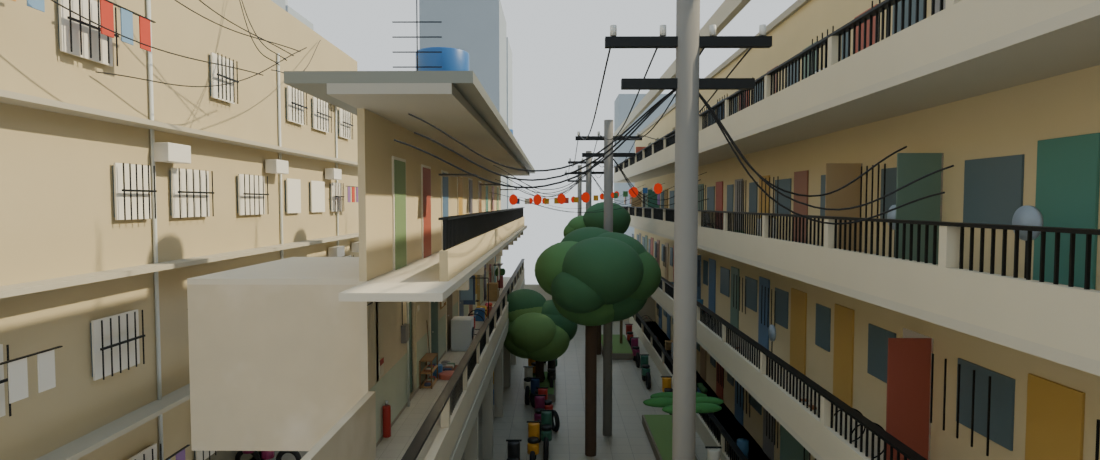
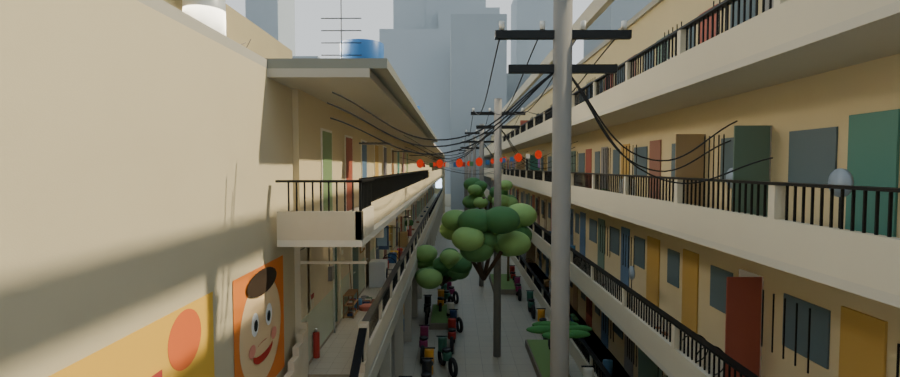
Ho so 02: lan can che phan ho dau nha (tang 2/3) + tranh duong pho tren tuong ngoai
Claude-Session: https://claude.ai/code/session_015xtvRhLRyfqVC2mbHabEYR

diff --git a/episodes/hem-co-chuyen/ho-so-02-nguoi-lam-thay/assets/boi-canh-3d/moi_truong.py b/episodes/hem-co-chuyen/ho-so-02-nguoi-lam-thay/assets/boi-canh-3d/moi_truong.py
@@ -297,6 +297,7 @@ def build(X, m, coll, night, hl_y1):
 
     mo_rong(X, m, coll, night, hl_y1)
     hem_chi_tiet(X, coll, night)
+    tranh_tuong(X, coll, night)
     # ------------------------------------------------------------ cửa hành lang phòng Nam: mỗi cửa một cảnh riêng
     items = ['giay', 'may_giat', 'xe_dap', 'ghe_ban', 'ban_tho', 'carton', 'phoi_quat', 'khoa_cay']
     for k, kind in enumerate(items):
@@ -569,3 +570,64 @@ def hem_chi_tiet(X, coll, night, rnd_seed=303):
         for q in range(4): sphere(f'env_hc_la_hem{k}_{q}', W + T + 0.4 + 0.09 * math.cos(q * 1.6), -3.5 + k * 1.1 + 0.09 * math.sin(q * 1.6), GZ + 0.45 + 0.05 * q, 0.14, mat('#4f7a4a', 0.8), scale=(1, 1, 1.3), coll=coll)
     B('vung_nuoc', W + T + 0.5, W + T + 1.5, 1.0, 2.6, GZ + 0.002, GZ + 0.006, mat('#6f8590', 0.05), coll=coll)
     B('ong_thoat_nuoc', W + T + 0.02, W + T + 0.08, 4.2, 4.26, GZ, GZ + FL * 3, mat('#cfd3cf', 0.45), coll=coll)
+
+
+def tranh_tuong(X, coll, night=False):
+    """Tranh vẽ đường phố (mural) trên các mảng tường ngoài còn trống: làng quê, hoa sen, phố xe máy, graffiti trừu tượng, mặt cười.
+    Mỗi tranh gồm các hình phẳng xếp lớp (chữ nhật + elip dẹt), không dùng ảnh nền."""
+    box, sphere, M = X.box, X.sphere, X.M
+    GZ = -2.92
+    def mat(c):
+        k = ('mu', c)
+        if k not in _cache: _cache[k] = M.solid('emu_' + c.strip('#'), c, 0.85)
+        return _cache[k]
+    cnt = [0]
+
+    def mural(name, face, wall, u0, v0, w, h, shapes):
+        cnt[0] += 1
+        for i, sh in enumerate(shapes):
+            d = 0.01 + 0.003 * i
+            if sh[0] == 'r':
+                _, ua, ub, va, vb, c = sh
+                if face == '-x': box(f'env_mu_{name}_{i}', wall - d - 0.003, wall - d, u0 + ua * w, u0 + ub * w, v0 + va * h, v0 + vb * h, mat(c), coll=coll)
+                elif face == '+x': box(f'env_mu_{name}_{i}', wall + d, wall + d + 0.003, u0 + ua * w, u0 + ub * w, v0 + va * h, v0 + vb * h, mat(c), coll=coll)
+                else: box(f'env_mu_{name}_{i}', u0 + ua * w, u0 + ub * w, wall + d, wall + d + 0.003, v0 + va * h, v0 + vb * h, mat(c), coll=coll)
+            else:
+                _, cu, cv, ru, rv, c = sh
+                U = u0 + cu * w; V = v0 + cv * h; RU = ru * w; RV = rv * h
+                if face == '-x': sphere(f'env_mu_{name}_{i}', wall - d - 0.0015, U, V, 1.0, mat(c), scale=(0.0015, RU, RV), coll=coll)
+                elif face == '+x': sphere(f'env_mu_{name}_{i}', wall + d + 0.0015, U, V, 1.0, mat(c), scale=(0.0015, RU, RV), coll=coll)
+                else: sphere(f'env_mu_{name}_{i}', U, wall + d + 0.0015, V, 1.0, mat(c), scale=(RU, 0.0015, RV), coll=coll)
+
+    # u, v chuẩn hoá 0..1 theo chiều rộng/cao tranh. 'r' = chữ nhật (u0,u1,v0,v1), 'e' = elip (cu,cv,ru,rv)
+    LANG_QUE = [('r', 0, 1, 0, 1, '#8fd0e8'), ('e', 0.78, 0.78, 0.07, 0.15, '#f4c542'), ('e', 0.22, 0.4, 0.55, 0.32, '#4f9a5a'), ('e', 0.65, 0.38, 0.5, 0.28, '#3f8a4f'),
+                ('e', 0.9, 0.36, 0.3, 0.22, '#5aa860'), ('r', 0, 1, 0, 0.28, '#4a9fc8'), ('e', 0.3, 0.13, 0.12, 0.03, '#ffffff'), ('e', 0.7, 0.1, 0.1, 0.025, '#ffffff'),
+                ('e', 0.5, 0.2, 0.13, 0.05, '#c24a3a'), ('r', 0.495, 0.505, 0.2, 0.5, '#4a3a2a'), ('e', 0.55, 0.38, 0.05, 0.1, '#f2f2f2'),
+                ('e', 0.2, 0.85, 0.03, 0.045, '#e8506a'), ('e', 0.4, 0.9, 0.025, 0.04, '#f2d24a'), ('e', 0.12, 0.7, 0.02, 0.03, '#ffffff'), ('e', 0.33, 0.8, 0.02, 0.03, '#ffffff')]
+    HOA_SEN = [('r', 0, 1, 0, 1, '#2a7f86'), ('e', 0.25, 0.25, 0.22, 0.18, '#3fa060'), ('e', 0.75, 0.2, 0.25, 0.17, '#35905a'), ('e', 0.5, 0.12, 0.3, 0.1, '#58b070'),
+               ('r', 0.495, 0.505, 0.1, 0.55, '#2f6a3a'), ('e', 0.5, 0.62, 0.17, 0.2, '#f08aa8'), ('e', 0.4, 0.58, 0.1, 0.17, '#f4a6bc'), ('e', 0.6, 0.58, 0.1, 0.17, '#f4a6bc'),
+               ('e', 0.5, 0.68, 0.08, 0.14, '#f8c4d2'), ('e', 0.5, 0.56, 0.05, 0.06, '#f4c542'), ('e', 0.15, 0.7, 0.05, 0.08, '#f4a6bc'), ('e', 0.86, 0.66, 0.04, 0.07, '#f08aa8'),
+               ('e', 0.2, 0.9, 0.025, 0.04, '#ffffff'), ('e', 0.78, 0.88, 0.03, 0.05, '#f2f2f2')]
+    PHO_XE = [('r', 0, 1, 0, 1, '#f2c14e'), ('e', 0.85, 0.82, 0.08, 0.16, '#e8743c'), ('r', 0.03, 0.17, 0.2, 0.7, '#c24a3a'), ('r', 0.17, 0.3, 0.2, 0.55, '#3b6ea5'), ('r', 0.3, 0.46, 0.2, 0.82, '#6a4a8a'),
+              ('r', 0.46, 0.58, 0.2, 0.6, '#2f8a6a'), ('r', 0.58, 0.74, 0.2, 0.75, '#c8504a'), ('r', 0.74, 0.97, 0.2, 0.5, '#4a7ab0'), ('r', 0, 1, 0, 0.22, '#3a3a3a'),
+              ('r', 0.0, 1.0, 0.09, 0.105, '#f2f2f2'), ('e', 0.3, 0.2, 0.05, 0.1, '#111111'), ('e', 0.43, 0.2, 0.05, 0.1, '#111111'), ('r', 0.31, 0.43, 0.2, 0.3, '#d8352a'), ('e', 0.37, 0.4, 0.035, 0.09, '#f2d0a8'),
+              ('e', 0.68, 0.2, 0.05, 0.1, '#111111'), ('e', 0.81, 0.2, 0.05, 0.1, '#111111'), ('r', 0.69, 0.81, 0.2, 0.3, '#2f5f9a'), ('e', 0.75, 0.4, 0.035, 0.09, '#f2d0a8'), ('e', 0.75, 0.47, 0.06, 0.03, '#d8c060')]
+    GRAFFITI = [('r', 0, 1, 0, 1, '#1b1b22'), ('e', 0.3, 0.5, 0.22, 0.4, '#ff4f8b'), ('e', 0.55, 0.45, 0.18, 0.33, '#34d1bf'), ('e', 0.78, 0.55, 0.15, 0.3, '#ffd23f'),
+                ('r', 0.05, 0.95, 0.12, 0.2, '#6a5acd'), ('r', 0.1, 0.9, 0.83, 0.9, '#ff7a2f'), ('e', 0.3, 0.5, 0.09, 0.16, '#1b1b22'), ('e', 0.55, 0.45, 0.07, 0.13, '#ffffff'),
+                ('e', 0.78, 0.55, 0.06, 0.12, '#ff4f8b'), ('r', 0.2, 0.25, 0.3, 0.75, '#34d1bf'), ('r', 0.7, 0.74, 0.25, 0.8, '#ffd23f'), ('e', 0.9, 0.2, 0.04, 0.08, '#ffffff'), ('e', 0.08, 0.8, 0.04, 0.08, '#ff4f8b')]
+    MAT_CUOI = [('r', 0, 1, 0, 1, '#f08a3c'), ('e', 0.5, 0.5, 0.42, 0.42, '#f6d7a8'), ('e', 0.36, 0.58, 0.07, 0.09, '#ffffff'), ('e', 0.64, 0.58, 0.07, 0.09, '#ffffff'),
+                ('e', 0.37, 0.57, 0.035, 0.045, '#222222'), ('e', 0.63, 0.57, 0.035, 0.045, '#222222'), ('e', 0.5, 0.33, 0.2, 0.08, '#c8352a'), ('e', 0.5, 0.36, 0.2, 0.045, '#f6d7a8'),
+                ('e', 0.28, 0.4, 0.06, 0.05, '#f2a08a'), ('e', 0.72, 0.4, 0.06, 0.05, '#f2a08a'), ('e', 0.5, 0.88, 0.3, 0.1, '#3a2a1a')]
+    # tường hướng sân phía đầu nhà (x = 0, nhìn về −x): hai tranh lớn
+    mural('lang_que', '-x', 0.0, -8.6, GZ + 0.2, 5.2, 2.5, LANG_QUE)
+    mural('pho_xe', '-x', 0.0, -8.6, 0.35, 4.6, 2.2, PHO_XE)
+    mural('mat_cuoi', '-x', 0.0, -3.4, 0.45, 2.1, 2.1, MAT_CUOI)
+    mural('graffiti', '-x', 0.0, -3.4, GZ + 0.25, 2.2, 1.8, GRAFFITI)
+    # tường rào đầu sân phía y âm (y = −14,5, hướng +y)
+    mural('hoa_sen', '+y', -14.2, -8.5, GZ + 0.2, 3.2, 2.2, HOA_SEN)
+    mural('graffiti2', '+y', -14.2, -4.6, GZ + 0.2, 3.0, 2.0, GRAFFITI)
+    # tường nhà hàng xóm bên hẻm (hướng −x): chỗ trống tầng trệt + giữa hai tầng
+    AX = X.W + X.T + 2.2
+    mural('hem_hoa_sen', '-x', AX, -9.0, GZ + 0.3, 3.4, 2.3, HOA_SEN)
+    mural('hem_pho_xe', '-x', AX, 5.2, GZ + 0.3, 4.4, 2.1, PHO_XE)
+    mural('hem_mat_cuoi', '-x', AX, -4.6, GZ + 0.3, 1.9, 1.9, MAT_CUOI)

diff --git a/episodes/hem-co-chuyen/ho-so-02-nguoi-lam-thay/assets/boi-canh-3d/xay_phong_tro.py b/episodes/hem-co-chuyen/ho-so-02-nguoi-lam-thay/assets/boi-canh-3d/xay_phong_tro.py
@@ -479,6 +479,23 @@ def hallway(m, coll, night):
         box(f'thang_tru{i}', X0 + 0.01, X0 + 0.13, ya, ya + 0.1, -RI * (i + 1) + 0.5, -RI * (i + 1) + 1.0 + 0.05, m['tuong'], bevel=0.005, coll=coll)
     box('thang_tru_cuoi', X0 - 0.01, X0 + 0.15, Y0 - TR * NB - 0.02, Y0 - TR * NB + 0.14, GZ, GZ + 1.1, m['tuong'], bevel=0.006, coll=coll)
     box('lancan_t1_cau_thang_chan', X0 - 0.02, X0 + 0.16, Y0 - 0.1, Y0 + 0.1, 0.5, 1.06, m['tuong'], bevel=0.006, coll=coll)  # trụ đầu thang
+    # lan can che phần hở ở đầu nhà: (1) mép sàn tầng 3 nhô ra trên cầu thang, (2) chiếu nghỉ tầng 2 bên mép sân, (3) mép sàn đầu hành lang tầng 3
+    z3_ = H + 0.12; yE = Y0 - 1.3
+    def rail_h(nm, xa, xb, ya, yb, zf):  # tay vịn + thành thấp + con tiện trên mặt sàn z = zf
+        box(nm + '_thap', xa, xb, ya, yb, zf, zf + 0.5, m['tuong'], bevel=0.005, coll=coll)
+        box(nm + '_tay', xa - 0.01, xb + 0.01, ya - 0.01, yb + 0.01, zf + 1.0, zf + 1.04, m['thep'], bevel=0.005, coll=coll)
+    rail_h('lc_dau_t3_ngang', X0 - 0.15, ex, yE, yE + 0.12, z3_)
+    rail_h('lc_dau_t3_ngoai', X0 - 0.15, X0 - 0.03, yE, Y0, z3_)
+    for i in range(int((ex - X0 + 0.15) / 0.14)):
+        xx = X0 - 0.14 + i * 0.14
+        box(f'lc_dau_t3_song_n{i}', xx, xx + 0.025, yE + 0.04, yE + 0.065, z3_ + 0.5, z3_ + 1.0, m['thep'], coll=coll)
+    for i in range(int((Y0 - yE) / 0.14)):
+        yy = yE + 0.14 + i * 0.14
+        box(f'lc_dau_t3_song_o{i}', X0 - 0.10, X0 - 0.075, yy, yy + 0.025, z3_ + 0.5, z3_ + 1.0, m['thep'], coll=coll)
+    # chiếu nghỉ tầng 2: lan can chắn ngang miệng cầu thang (chừa lối xuống ở giữa) + trụ góc
+    box('lc_chieu_nghi_trai', X0, X0 + 0.14, Y0 - 0.02, Y0 + 0.06, 0.0, 1.06, m['tuong'], bevel=0.006, coll=coll)
+    box('lc_chieu_nghi_phai', ex - 0.12, ex, Y0 - 0.02, Y0 + 0.06, 0.0, 1.06, m['tuong'], coll=coll)
+    box('lc_chieu_nghi_dam', X0, ex, Y0 + 0.0, Y0 + 0.03, 2.25, 2.3, m['viền'], coll=coll)  # dầm cổng chiếu nghỉ
     # đèn tuýp hành lang
     for k in range(int((Y1 - 2.3) / 4.9) + 1):
         box(f'den_tuyp_hl{k}', -1.0, -0.4, 2.3 + 4.9 * k, 2.34 + 4.9 * k, H - 0.04, H - 0.01, m['den_tuyp_hl'], bevel=0.004, coll=coll)
